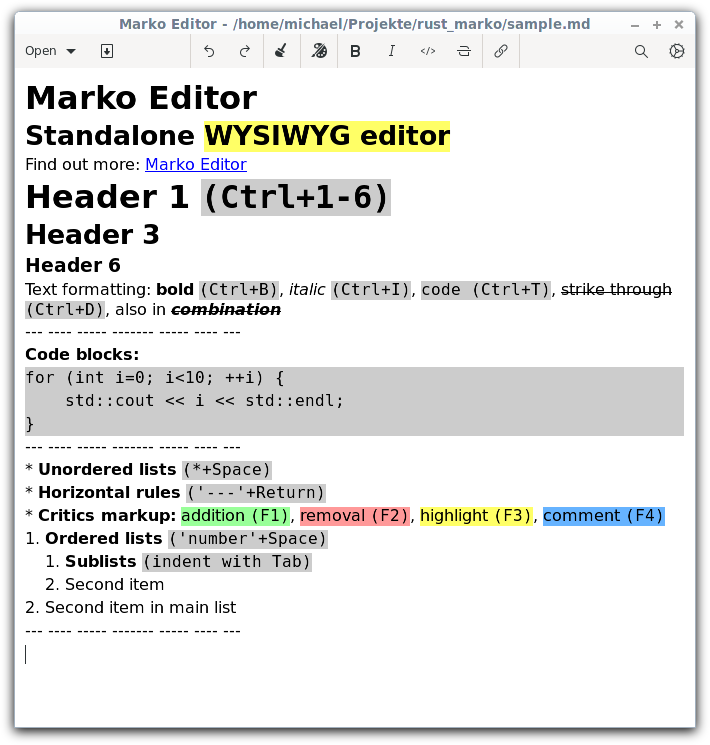
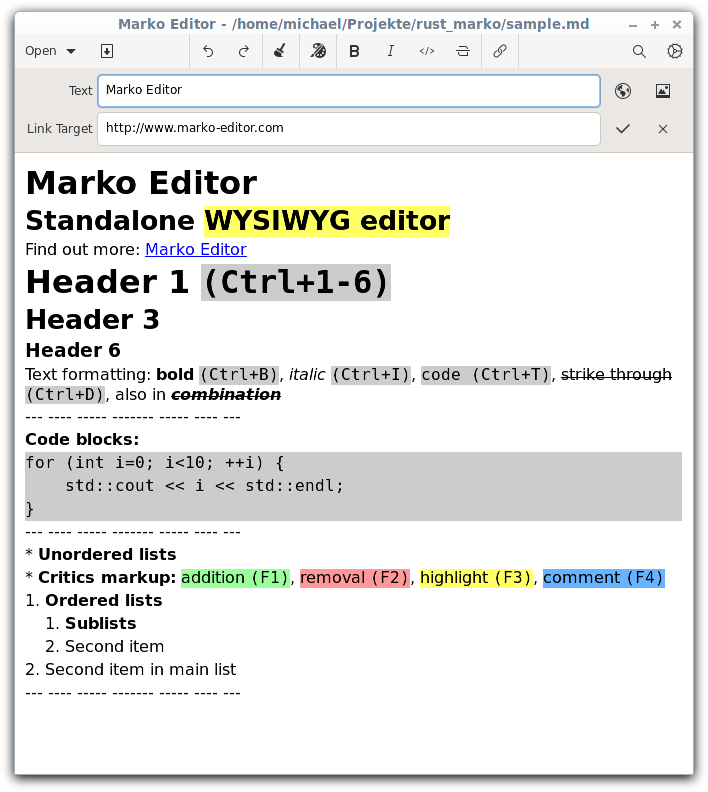
Updated screenshot

diff --git a/readme.md b/readme.md
@@ -2,7 +2,7 @@
 
 Marko Editor is a simple WYSIWYG editor for note taking written in Rust and GTK 4. It uses Markdown as storage format and can read simple Markdown files. However, the main focus of Marko Editor is WYSIWYG note taking and not being a 100% compliant Markdown editor.
 
-![Marko Editor screenshot](./doc/marko-editor-screenshot.png?raw=true "Marko Editor")
+![Marko Editor in link edit mode screenshot](./doc/marko-editor-screenshot.png?raw=true "Marko Editor in link edit mode")
 
 ## Background
 
